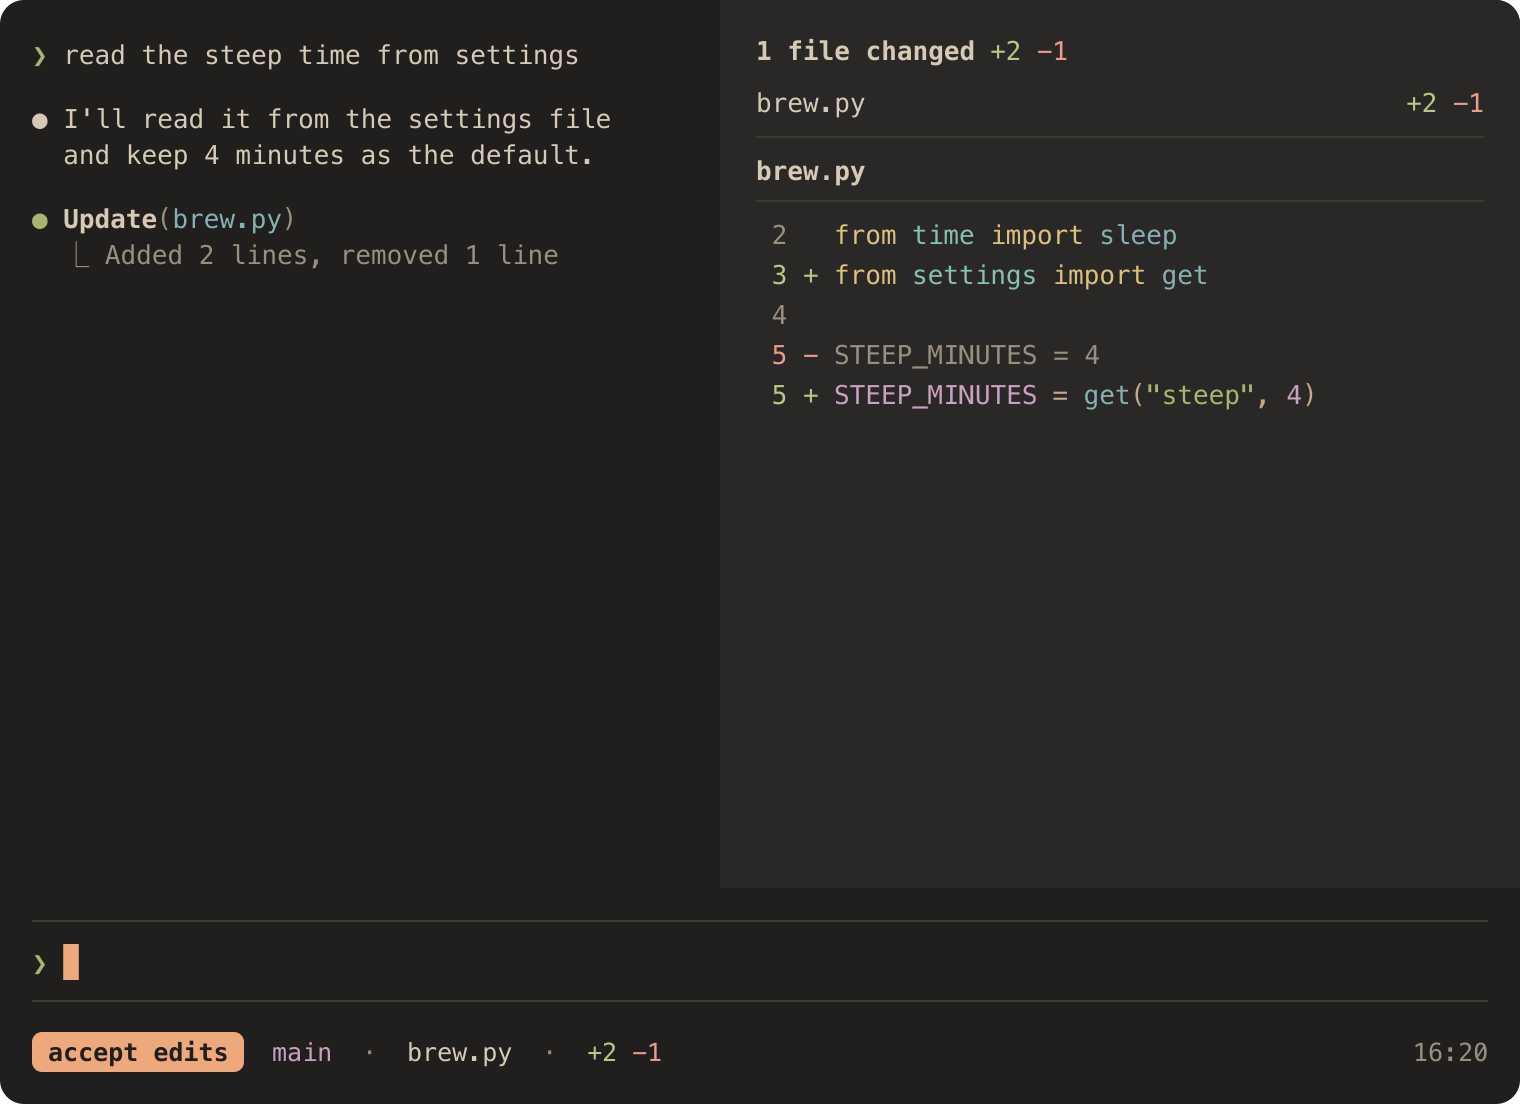
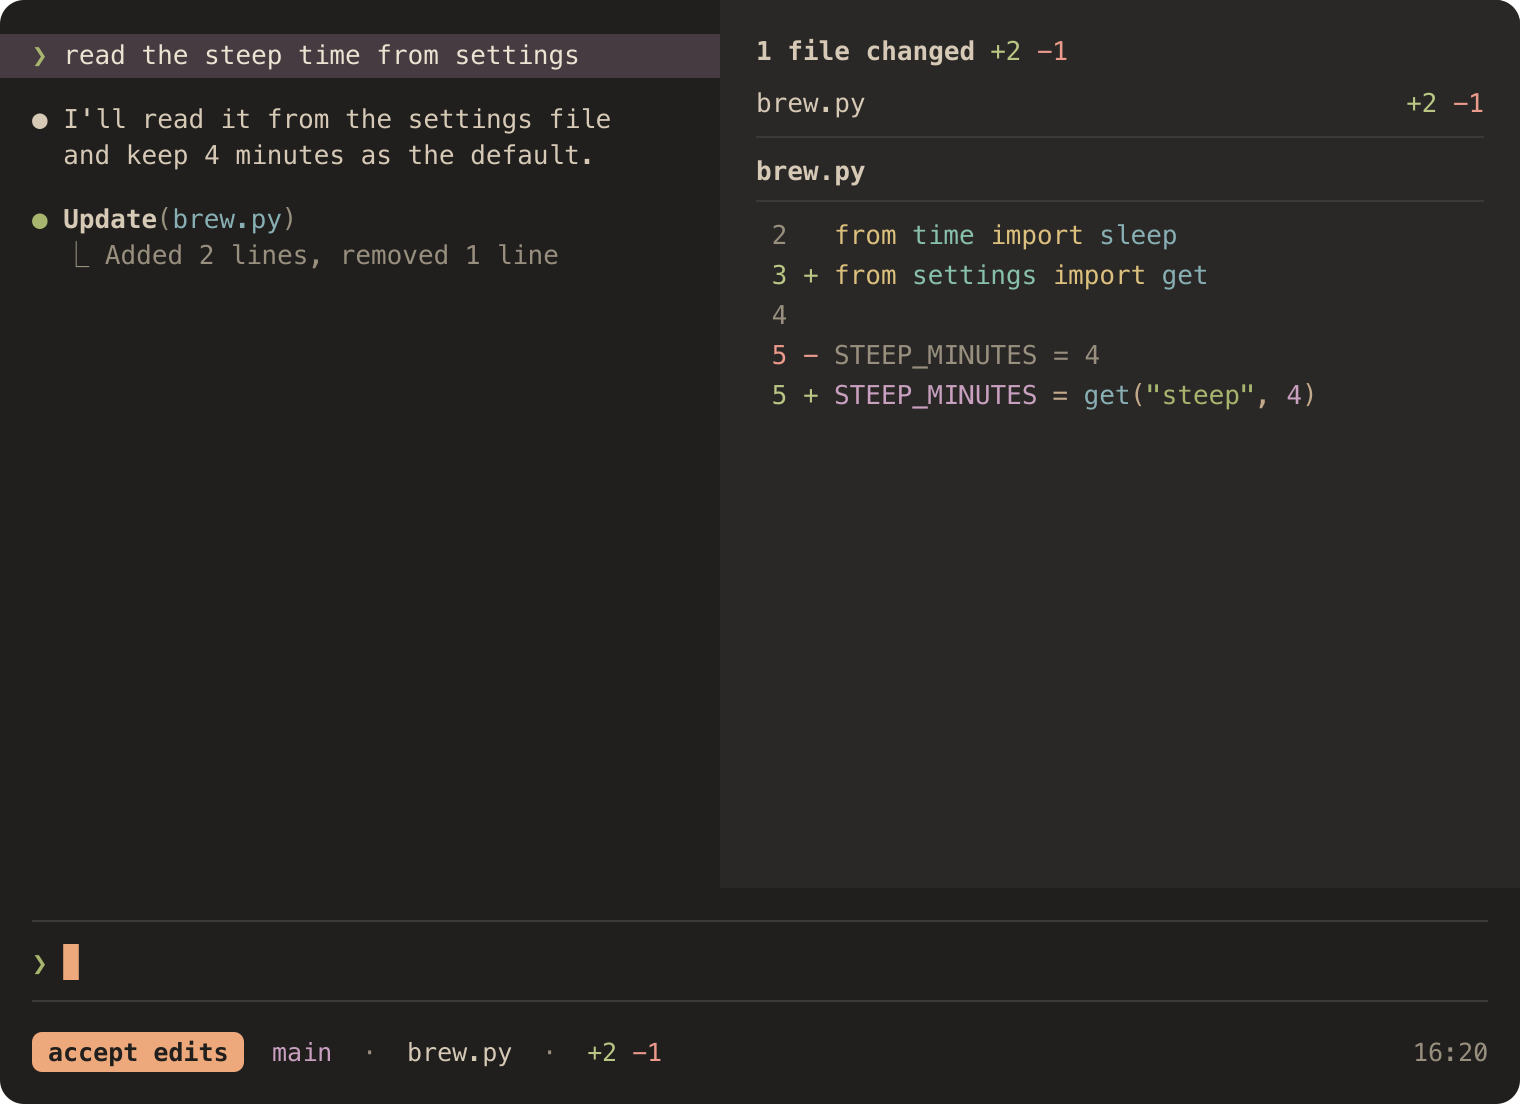
Umber Calm: put your Claude Code requests on a purple band
Your messages, ! commands and # notes sat on the transcript background and
were hard to find. They now sit on purple at 22 % (#453B41), a measured
state in the style guide: text reads 6.6:1 on it and muted 3.4:1. The
README render shows the band. Verified on Claude Code 2.1.319 and macOS
26.6.2 with the selection fix, so Claude Code is supported again.

Changed region(s): [[0.0, 0.0308, 0.4947, 0.0924]]

diff --git a/tools/umber/sessions.py b/tools/umber/sessions.py
@@ -4,6 +4,8 @@ from __future__ import annotations
 
 from xml.sax.saxutils import escape
 
+from . import readability
+
 MONO = "ui-monospace, Menlo, Consolas, monospace"
 ADVANCE = 0.6  # monospace advance per em: character columns line up at any font size
 CORNER = 12
@@ -28,7 +30,7 @@ class _Canvas:
                     '<g clip-path="url(#card)">']
 
     def c(self, ref: str) -> str:
-        return self.pal.resolve(ref)
+        return readability.background(self.pal, ref)  # a role, or a blend the style guide measures
 
     def rect(self, x, y, w, h, ref: str, rx: float = 0, stroke: str = "") -> None:
         extra = (f' rx="{rx}"' if rx else "") + (f' stroke="{self.c(stroke)}"' if stroke else "")
@@ -84,8 +86,8 @@ def _brew_code() -> list[list[tuple]]:
 
 
 def _claude(pal) -> _Canvas:
-    """Transcript on the background (the port's userMessageBackground), the diff panel on the surface
-    (composerSidebarBackground), counts and markers in ANSI bright green and red as the app draws them."""
+    """Transcript on the background, your request on the purple band (the port's userMessageBackground), the diff
+    panel on the surface (composerSidebarBackground), counts and markers in ANSI bright green and red as the app draws them."""
     w, h, split, size = 760, 552, 360, 13  # the full render's proportions; the extra height stays empty on purpose
     cv = _Canvas(pal, w, h, size)
     cw = size * ADVANCE
@@ -94,7 +96,9 @@ def _claude(pal) -> _Canvas:
     cv.rect(0, 0, w, h, bg)
     cv.rect(split, 0, w - split, panel_h, panel)
     x = 16
-    cv.text(x, 32, [("diag.ok", "❯ "), ("ui.text", "read the steep time from settings")], bg)
+    request = "blend:purple:bg:tint.diff"
+    cv.rect(0, 17, split, 22, request)
+    cv.text(x, 32, [("diag.ok", "❯ "), ("text_bright", "read the steep time from settings")], request)
     cv.text(x, 64, [("ui.text", "● I'll read it from the settings file")], bg)
     cv.text(x + cw * 2, 82, [("ui.text", "and keep 4 minutes as the default.")], bg)
     cv.text(x, 114, [("diag.ok", "● "), ("ui.text", "Update", "bold"), ("ui.text_secondary", "("),

diff --git a/tools/umber/readability.py b/tools/umber/readability.py
@@ -25,6 +25,9 @@ PAIRS: list[tuple[str, str, str, float]] = [
     ("muted on search match (E3)", "muted", "blend:diag.search:bg:tint.search", 3.0),
     ("bg on current search match", "bg", "diag.search", 4.5),
     ("cursor text on cursor", "term.cursor_text", "term.cursor", 4.5),
+    ("text on your messages", "text", "blend:purple:bg:tint.diff", 4.5),
+    ("text_bright on your messages", "text_bright", "blend:purple:bg:tint.diff", 4.5),
+    ("muted on your messages (E3)", "muted", "blend:purple:bg:tint.diff", 3.0),
     *[(f"text on diff {k}", "text", f"blend:diag.diff_{k}:bg:tint.diff", 4.5) for k in DIFF_KINDS],
     *[(f"muted on diff {k} (E3)", "muted", f"blend:diag.diff_{k}:bg:tint.diff", 3.0) for k in DIFF_KINDS],
     *[(f"text on light diff {k}", "text", f"blend:diag.diff_{k}:bg:tint.diag", 4.5) for k in DIFF_KINDS],
@@ -36,7 +39,8 @@ PAIRS: list[tuple[str, str, str, float]] = [
 ]
 
 
-def _background(pal: Palette, spec: str) -> str:
+def background(pal: Palette, spec: str) -> str:
+    """A palette reference, or a measured blend written `blend:<fg>:<base>:<tint>`, as #RRGGBB."""
     if spec.startswith("blend:"):
         _, fg, base, amount = spec.split(":")
         return color.blend(pal.resolve(fg), pal.resolve(base), pal.tint(amount))
@@ -45,13 +49,13 @@ def _background(pal: Palette, spec: str) -> str:
 
 def measured_blends(pal: Palette) -> set[str]:
     """Every blended background that §4.4 measures. Templates may only blend to one of these (the closed set)."""
-    return {_background(pal, bg) for _, _, bg, _ in PAIRS if bg.startswith("blend:")}
+    return {background(pal, bg) for _, _, bg, _ in PAIRS if bg.startswith("blend:")}
 
 
 def problems(pal: Palette) -> list[str]:
     found = []
     for label, fg, bg, minimum in PAIRS:
-        ratio = color.contrast(pal.resolve(fg), _background(pal, bg))
+        ratio = color.contrast(pal.resolve(fg), background(pal, bg))
         if ratio < minimum:
             found.append(f"readability: {label} is {ratio:.2f}:1, below {minimum}:1")
     return found

diff --git a/tests/test_render_svg.py b/tests/test_render_svg.py
@@ -1,7 +1,7 @@
 import json, re, unittest
 import xml.etree.ElementTree as ET
 from tests.helpers import REPO, load_real_palette
-from umber import buildcmd, color, cvd, docsgen, outputs, registry, render_svg, sessions
+from umber import buildcmd, color, cvd, docsgen, outputs, readability, registry, render_svg, sessions
 
 P = load_real_palette()
 FIXTURE = json.loads((REPO / docsgen.FIXTURE).read_text(encoding="utf-8"))
@@ -67,7 +67,7 @@ class SessionsTest(unittest.TestCase):
         return "".join(el.itertext()) if el.tag in (f"{SVG}text", f"{SVG}tspan") else el.tag.rsplit("}", 1)[1]
 
     def test_every_color_is_a_palette_color(self):
-        allowed = set(P.colors.values()) | set(P.ansi.values())
+        allowed = set(P.colors.values()) | set(P.ansi.values()) | readability.measured_blends(P)  # style guide states
         for name, root in self.svgs.items():
             for el, fill in self.fills(root):
                 self.assertIn(fill, allowed, f"{name}: {self.label(el)}")
@@ -94,7 +94,7 @@ class SessionsTest(unittest.TestCase):
             texts, marks = sessions.drawn_pairs(name, P)
             self.assertTrue(texts, name)
             for fg, bg in texts:
-                ratio = color.contrast(P.resolve(fg), P.resolve(bg))
+                ratio = color.contrast(P.resolve(fg), readability.background(P, bg))
                 self.assertGreaterEqual(ratio, sessions.minimum(fg, bg), f"{name}: {fg} on {bg} is {ratio:.2f}:1")
             for fg, bg in marks:  # non-text marks that carry meaning (WCAG 1.4.11)
                 self.assertGreaterEqual(color.contrast(P.resolve(fg), P.resolve(bg)), 3.0, f"{name}: {fg} on {bg}")

diff --git a/tests/test_ports.py b/tests/test_ports.py
@@ -5,7 +5,7 @@ from pathlib import Path
 from unittest.mock import patch
 from tests import portformats as pf
 from tests.helpers import REPO, load_real_palette
-from umber import buildcmd, color, moshi, outputs, qr, registry, structure
+from umber import buildcmd, color, moshi, outputs, qr, readability, registry, structure
 from umber.palette import ANSI_SLOTS
 
 P = load_real_palette()
@@ -126,6 +126,12 @@ class ClaudeCodePort(unittest.TestCase):
         o = data["overrides"]
         self.assertEqual(o["composerSidebarBackground"], P.colors["surface"])
         self.assertEqual(o["selectionBg"], P.resolve("ui.selection_bg"), "dark-ansi selects in solid ANSI blue")
+        band = color.blend(P.colors["purple"], P.colors["bg"], P.tint("tint.diff"))
+        self.assertEqual(band, "#453B41")
+        for key in ("userMessageBackground", "userMessageBackgroundHover", "bashMessageBackgroundColor",
+                    "memoryBackgroundColor"):
+            self.assertEqual(o[key], band, f"{key}: everything the owner types sits on the purple band")
+        self.assertIn(band, readability.measured_blends(P))
         self.assertEqual(set(o), {"userMessageBackground", "userMessageBackgroundHover", "bashMessageBackgroundColor",
                                   "memoryBackgroundColor", "composerSidebarBackground", "selectionBg"})
         for value in o.values():

diff --git a/README.md b/README.md
@@ -10,7 +10,7 @@ A warm, low-glare dark palette with measured contrast.
 
 <br><br>
 
-<img src="docs/renders/session-claude.svg" width="760" alt="A calm Claude Code session in Umber Calm: a short conversation on a warm near-black background, a diff panel with one line removed and two added, and a statusline where only the active mode is amber">
+<img src="docs/renders/session-claude.svg" width="760" alt="A calm Claude Code session in Umber Calm: a short conversation on a warm near-black background with the request on a muted purple band, a diff panel with one line removed and two added, and a statusline where only the active mode is amber">
 
 </div>
 
@@ -134,7 +134,7 @@ Umber Calm is in early development. Every port is generated from the app's docum
 
 <!-- ports:begin -->
 <details open>
-<summary><b>✅ supported (11)</b>: tested in the real app, on the exact files</summary>
+<summary><b>✅ supported (12)</b>: tested in the real app, on the exact files</summary>
 
 | App | Category | Download | Target version | Verified on | Notes |
 |---|---|---|---|---|---|
@@ -147,13 +147,14 @@ Umber Calm is in early development. Every port is generated from the app's docum
 | Kiro IDE | editor | [ports/kiro/](ports/kiro/) | 1.4.26 | 1.4.86 · macOS 26.6.2 |  |
 | Neovim | editor | [ports/neovim/](ports/neovim/README.md) | 0.10 | 0.12.6 · macOS 26.6.2 |  |
 | VS Code | editor | [ports/vscode/](ports/vscode/) | 1.95 (min 1.95.0) | 1.144.1 · macOS 26.6.2 |  |
+| Claude Code | ai | [ports/claude-code/](ports/claude-code/) | 2.1.319 | 2.1.319 · macOS 26.6.2 |  |
 | OpenCode | ai | [ports/opencode/](ports/opencode/) | 2.2.5 | 2.2.5 · macOS 26.6.2 | ⚠ OpenCode draws the main prompt's cursor in the text color and its bar in the agent's color, so neither is orange; dialogs, forms and the selected file are. It paints code builtins, built-in types and tags with its error color, so `string`, `null` and `<div>` are red in code, and it draws the markdown rule in a fixed gray. The file is a v2 theme document, which OpenCode reads but does not document yet; OpenCode 1 cannot read it. |
 | Orca | ai | [ports/orca/](ports/orca/) | main (fca1d7b) (min 1.4.246) | 1.4.253 · macOS 26.6.2 | ⚠ Orca paints some colors in code that no theme reaches. The code editor takes its cursor and its selection from the focus ring, so selections are tinted orange (the ring at 30 %, 15 % when the editor is not focused) and comments inside a selection read about 2.7:1. The editor colors bracket pairs with Monaco's defaults (gold, orchid and blue). Agent status dots use Orca's own amber, trust and approval dialogs keep Orca's colors, and program icons keep their own. |
 
 </details>
 
 <details>
-<summary><b>🧪 experimental (46)</b>: format confirmed, not yet tested in the app</summary>
+<summary><b>🧪 experimental (45)</b>: format confirmed, not yet tested in the app</summary>
 
 | App | Category | Download | Target version | Verified on | Notes |
 |---|---|---|---|---|---|
@@ -199,7 +200,6 @@ Umber Calm is in early development. Every port is generated from the app's docum
 | Firefox | web | [ports/firefox/](ports/firefox/) | 133 | — |  |
 | Tailwind CSS v4 | web | [ports/tailwind/](ports/tailwind/) | 4.0 | — |  |
 | aider | ai | [ports/aider/](ports/aider/) | 0.70 | — |  |
-| Claude Code | ai | [ports/claude-code/](ports/claude-code/) | 2.1.284 | 2.1.284 · macOS 26.6.2 |  |
 | Kiro Crew | ai | [ports/kiro-crew/](ports/kiro-crew/) | 0.9.0 | 0.9.0 · Linux 24.04 | ⚠ Kiro Crew paints code blocks (highlight.js, One Dark) and code and diff views (Shiki, pierre-dark) with fixed syntax colors that no theme pack can change; only comments, JSON tool details and the git panel diff follow the palette. The settings navigation icons sit on fixed colored tiles (`--tile-*`, orange and red among them) that a level-0 pack cannot set. The accent (blue) also draws its global keyboard-focus outline and terminal cursor; only text fields take the orange focus ring. The terminal derives black (the background) and the bright colors itself. |
 | Tinted Theming (base24) | scheme | [ports/base24/](ports/base24/) | base24 0.2 | — |  |
 | JSON palette | data | [ports/json/](ports/json/) | schema 1 | — |  |
@@ -235,7 +235,7 @@ A tier is supported only while its last real-app test covers the exact files you
 | Alacritty | 🧪 experimental | — |  |  | `9903dc86387e` |  |
 | bat | 🧪 experimental | — |  |  | `8e644b5a5106` |  |
 | btop | 🧪 experimental | — |  |  | `c618cda5c4c0` |  |
-| Claude Code | 🧪 experimental | 2026-09-28 (earlier revision) | 2.1.284 | macOS 26.6.2 | `8da92b50d58c` |  |
+| Claude Code | ✅ supported | 2026-11-08 | 2.1.319 | macOS 26.6.2 | `585c50d34a69` |  |
 | CSS variables | 🧪 experimental | — |  |  | `c71d8fe00710` |  |
 | delta | 🧪 experimental | — |  |  | `f58577a5c18d` |  |
 | dircolors (ls) | 🧪 experimental | — |  |  | `83b2b3860ea3` |  |

diff --git a/ports/claude-code/README.md b/ports/claude-code/README.md
@@ -1,10 +1,10 @@
 # Claude Code — Umber Calm
 
-Tier: 🧪 experimental (the last verification was for an earlier revision of these files)
+Tier: ✅ supported
 
-Target version: 2.1.284 · Format documentation: https://code.claude.com/docs/en/terminal-config
+Target version: 2.1.319 · Format documentation: https://code.claude.com/docs/en/terminal-config
 
-Verified on: 2.1.284 · macOS 26.6.2 (2026-09-28)
+Verified on: 2.1.319 · macOS 26.6.2 (2026-11-08)
 
 ## Install
 
@@ -16,7 +16,7 @@ Pick another theme with /theme and delete the file.
 
 ## Verification checklist
 
-- [ ] message backgrounds
+- [ ] your messages, ! commands and # notes on the purple band (#453B41), set apart from replies, the same when hovered
 - [ ] composerSidebarBackground visibly applied: the diff side panel is the surface color, not gray
 - [ ] diff +/− counts readable (green/red)
 - [ ] no gray bands on added rows
@@ -24,7 +24,7 @@ Pick another theme with /theme and delete the file.
 
 ## Verification
 
-Current digest: `sha256:8da92b50d58cfa5cf0906acaadf881be5787f97eefe8a43408f1b1124993ab61`
+Current digest: `sha256:585c50d34a69ad66bfac69745e0bee9a01b697b3aba3e57c19a25b1e675767a9`
 
 Print it yourself with `python3 tools/build.py digest claude-code`. It covers these files:
 
@@ -32,6 +32,7 @@ Print it yourself with `python3 tools/build.py digest claude-code`. It covers th
 
 | Date | Result | App version | OS | OS version | Note | Evidence | Digest |
 |---|---|---|---|---|---|---|---|
+| 2026-11-08 | ✅ verified | 2.1.319 | macOS | 26.6.2 | Owner screenshots in Orca: messages #453B41, diff panel #2A2826, no row bands, +/- #B9C684/#EC9A8C, selection #3C3A36. ! and # share the value, not on screen. |  | `585c50d34a69` |
 | 2026-09-28 | ✅ verified | 2.1.284 | macOS | 26.6.2 | Owner screenshots: user messages #201F1D, diff panel #2A2826 with no row bands, +/- counts #B9C684/#EC9A8C. |  | `69ea78169c34` |
 
 Generated from ports.toml and verifications.json — do not edit. MIT License — see the repository LICENSE.

diff --git a/CHANGELOG.md b/CHANGELOG.md
@@ -3,7 +3,7 @@
 ## Unreleased
 
 - New port: Orca, pinned to its `main` branch at `fca1d7b` and verified in the app on Orca 1.4.253 and macOS 26.6.2. A content-only Orca plugin: an app theme that sets all 73 public tokens from palette roles and colors code from the syntax roles, plus a matching terminal theme. Sidebars and the tab strip sit a step darker than the editor, with hovered and current rows a step lighter each. Orange marks focus rings, the active tab line and the terminal cursor. Every color pair Orca checks clears its floor, so Orca keeps all of them. Orca 1.4.253 and older skip the seven chat tokens and keep their own chat colors. Some colors stay Orca's choice: the code editor tints selections with the focus ring, so they are orange, and bracket pairs keep Monaco's colors (the port's README lists them).
-- Claude Code: text you select with the mouse in fullscreen now sits on the selection color (`#3C3A36`) instead of the base theme's solid ANSI blue. The port needs to be verified again before the next release.
+- Claude Code: text you select with the mouse in fullscreen now sits on the selection color (`#3C3A36`) instead of the base theme's solid ANSI blue. Your messages, `!` commands and `#` notes sit on a purple band (`purple` at 22 %, `#453B41`), so your requests stand apart from replies. The style guide lists the band as a measured state: `text` reads 6.6:1 on it. A selection inside your own messages barely shows on it. Target version is now 2.1.319, the build it was verified on again (macOS 26.6.2).
 
 ## 0.5.0 (2026-11-08)
 

diff --git a/docs/style-guide.md b/docs/style-guide.md
@@ -135,6 +135,7 @@ Contrast is the WCAG 2.x ratio. Translucent backgrounds are composited in sRGB c
 | Diff added / deleted / changed line | 22 % → `#3E402F` · `#4A3530` · `#373F3E` | 6.5 · 7.0 · 6.6 | 3.3 · 3.6 · 3.4 |
 | Diff line, light (12 %) | `#303127` · `#372B27` · `#2C302F` | 8.1 · 8.4 · 8.2 | 4.1 · 4.3 · 4.2 |
 | Cursor | `orange`, text `bg` | 8.3 | — |
+| Your messages (what you type into an AI agent) | `purple` 22 % → `#453B41` | 6.6 (`text_bright` 8.5) | 3.4 |
 | Diagnostic virtual text, and the wash under code | severity color at 12 % | error 5.0 · warning 7.2 · info 5.7 · hint 6.4 (severity color on its tint) | 4.3 · 4.0 · 4.2 · 4.1 |
 
 A port may only blend to a background listed here; `tools/check.py` rejects any other blend.
